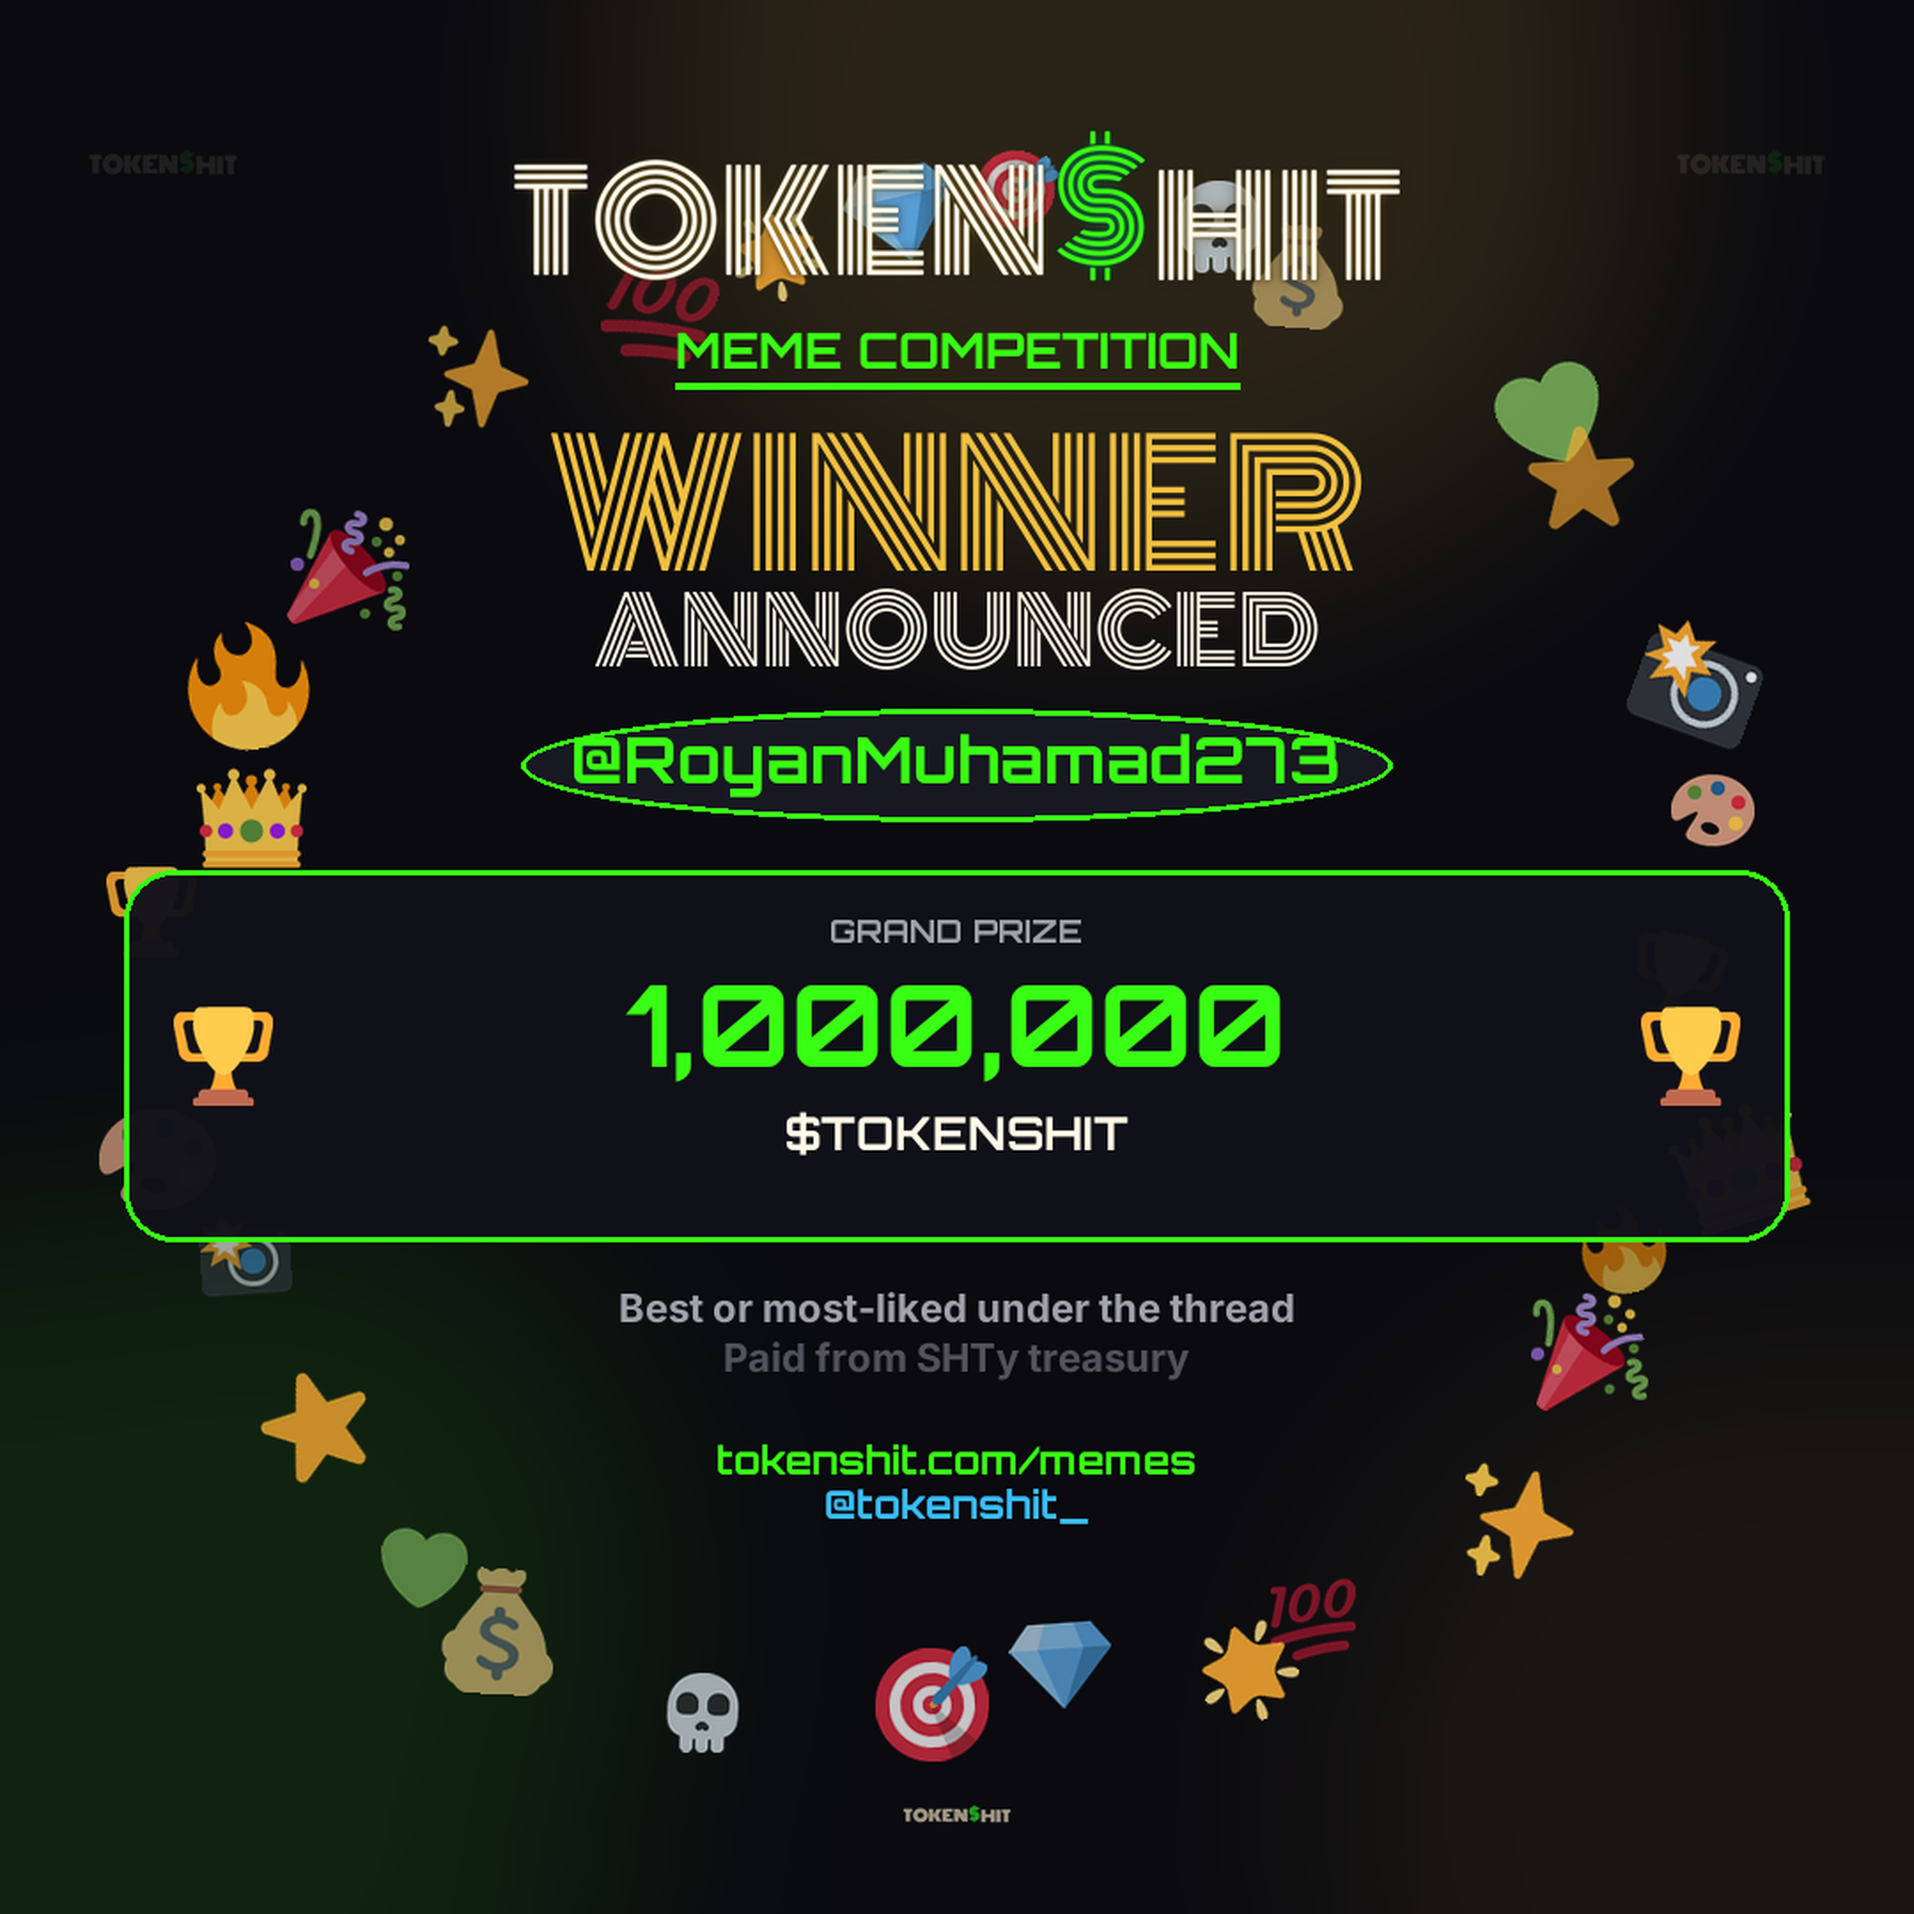
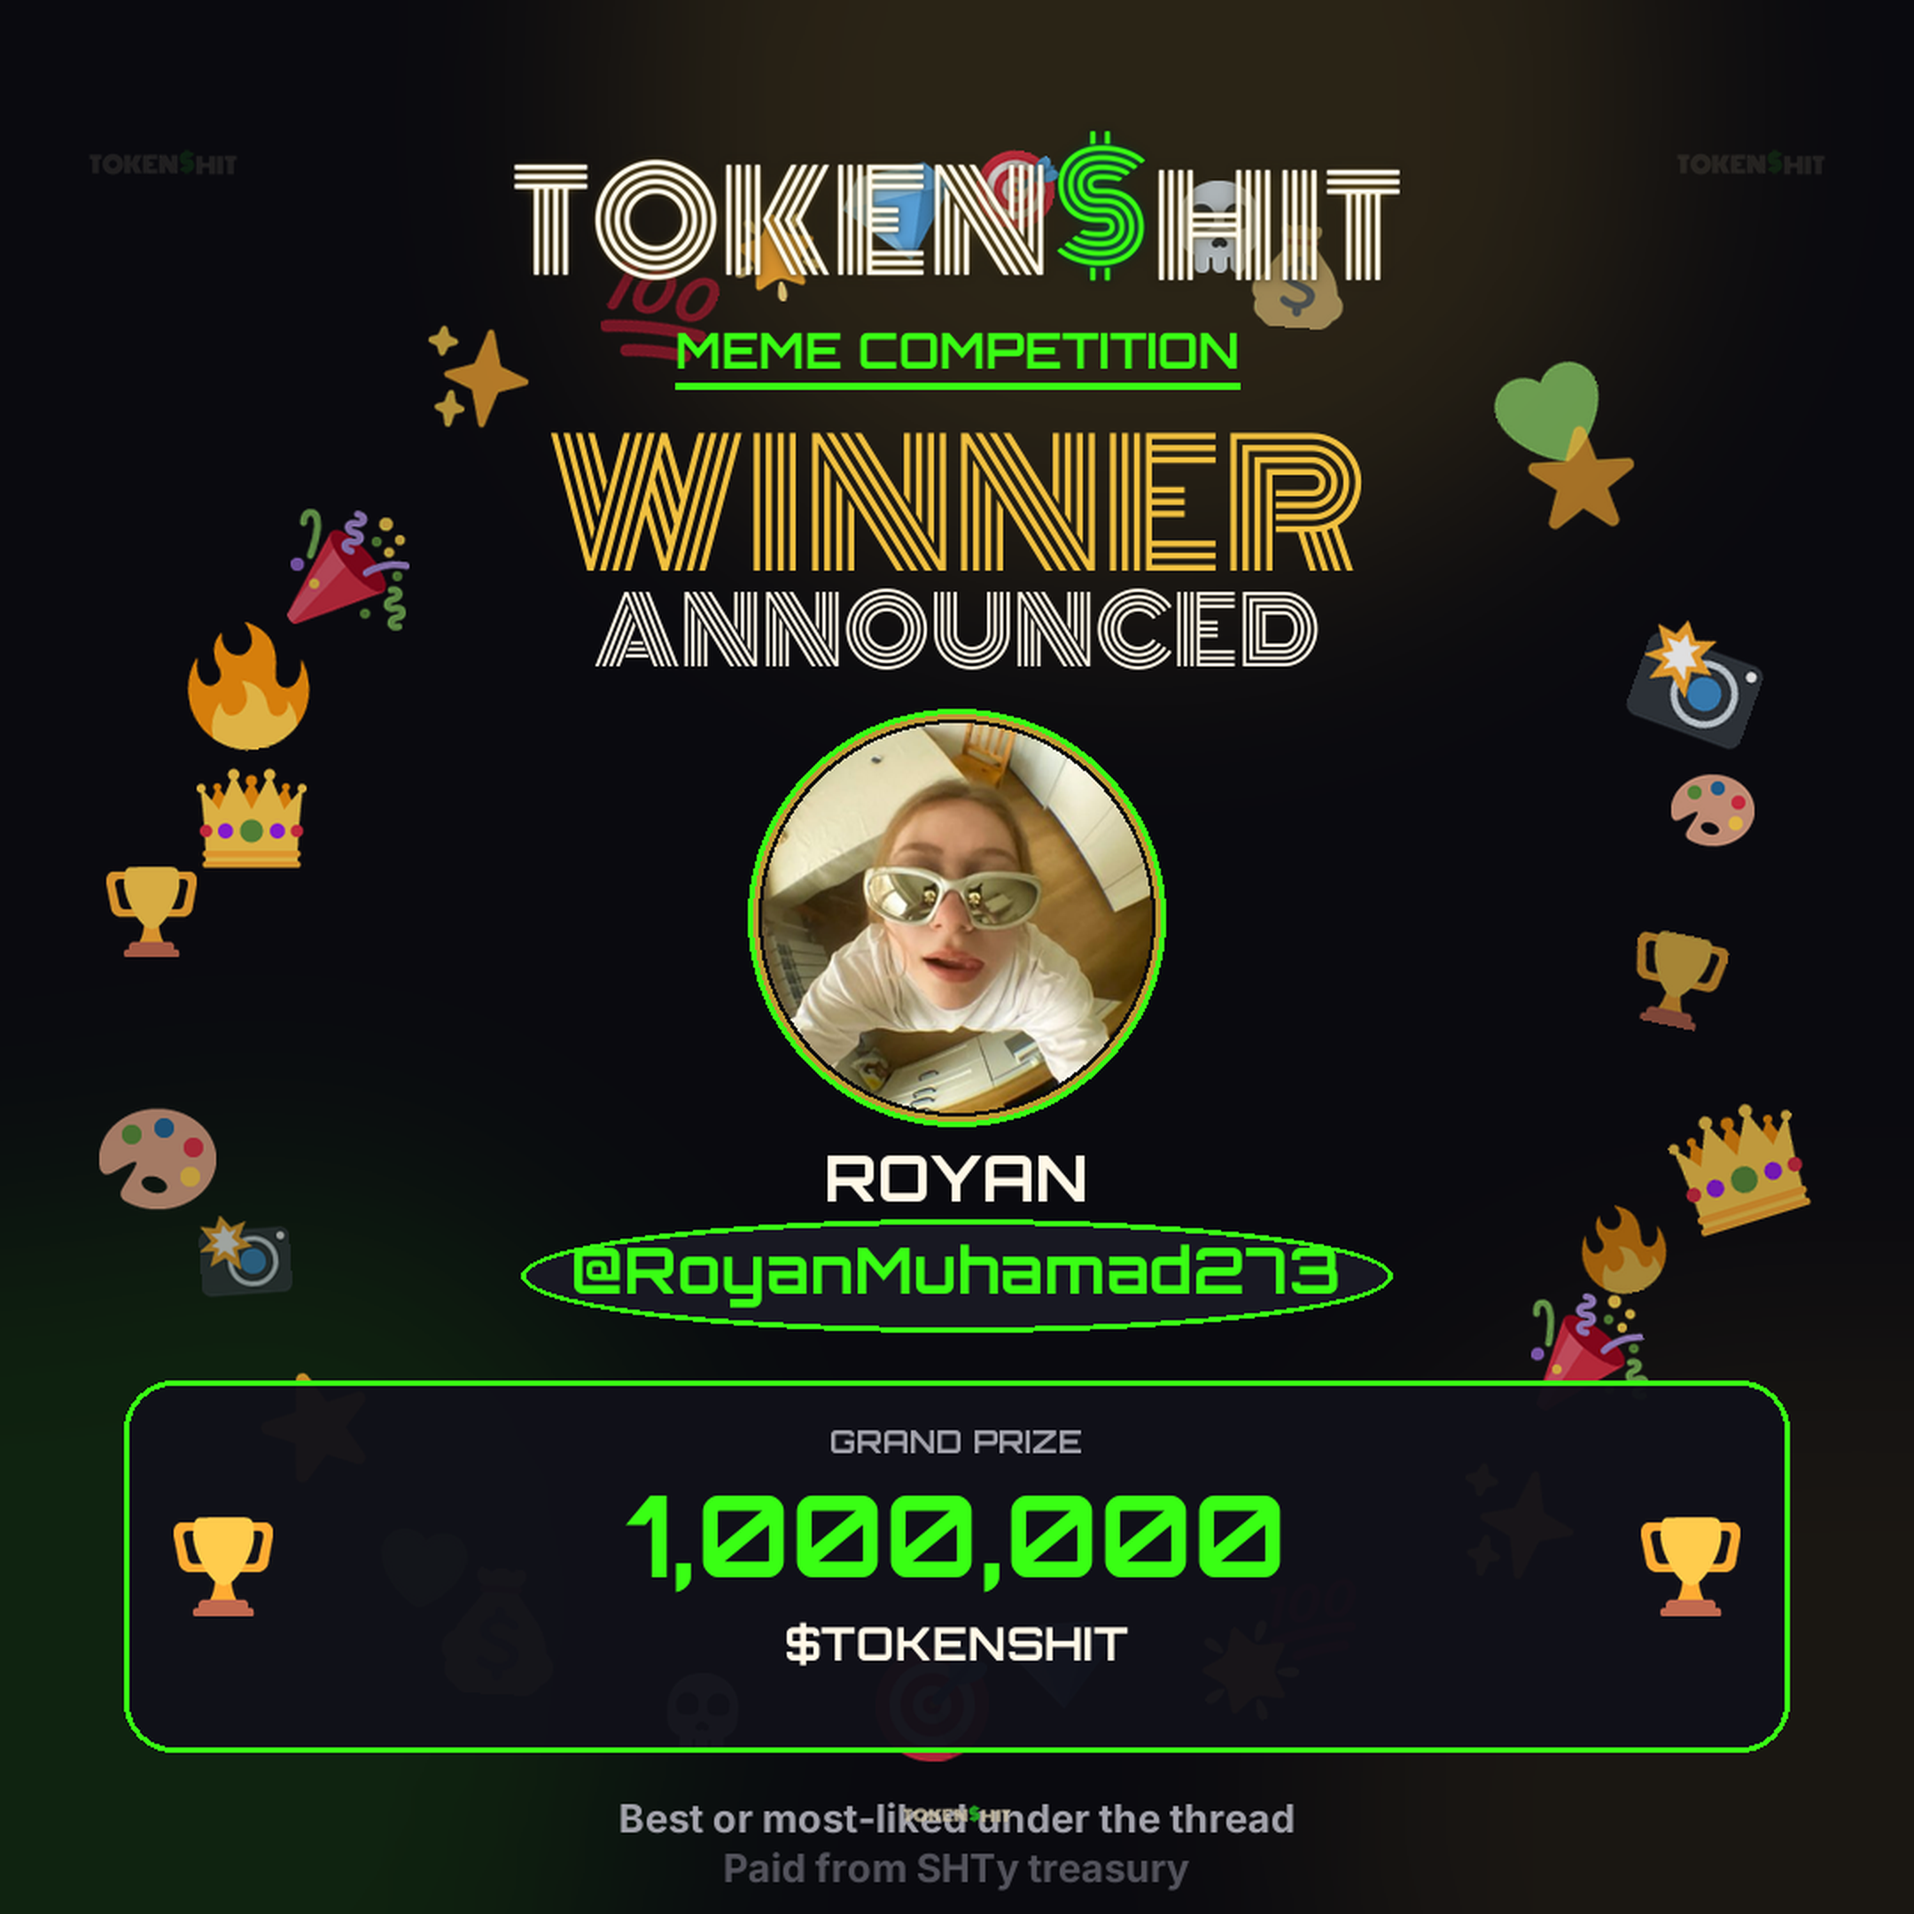
brand: winner poster with @RoyanMuhamad273 PFP

Changed region(s): [[0.062, 0.3722, 0.9616, 0.9926], [0.7444, 0.7444, 0.9616, 0.8995]]

diff --git a/scripts/generate-meme-comp-winner-poster.py b/scripts/generate-meme-comp-winner-poster.py
@@ -167,7 +167,7 @@ def center_text(draw, y, text, font, fill) -> int:
     return y + (b[3] - b[1])
 
 
-def build(handle: str | None = None) -> Image.Image:
+def build(handle: str | None = None, pfp_path: str | None = None, display_name: str | None = None) -> Image.Image:
     rng = random.Random(42)
     img = Image.new("RGBA", (S, S), (*BG, 255))
 
@@ -223,6 +223,33 @@ def build(handle: str | None = None) -> Image.Image:
     y = center_text(d, y, "WINNER", f_win, GOLD) + 10
     f_ann = fnt("Monoton-Regular.ttf", 52)
     y = center_text(d, y, "ANNOUNCED", f_ann, CREAM) + 22
+
+    # profile photo
+    if pfp_path:
+        try:
+            pfp = Image.open(pfp_path).convert("RGBA")
+            size = 220
+            pfp = pfp.resize((size, size), Image.Resampling.LANCZOS)
+            # circular mask
+            mask = Image.new("L", (size, size), 0)
+            md = ImageDraw.Draw(mask)
+            md.ellipse([0, 0, size - 1, size - 1], fill=255)
+            # neon ring
+            ring = Image.new("RGBA", (size + 16, size + 16), (0, 0, 0, 0))
+            rd = ImageDraw.Draw(ring)
+            rd.ellipse([0, 0, size + 15, size + 15], outline=(*NEON, 255), width=6)
+            rd.ellipse([3, 3, size + 12, size + 12], outline=(*GOLD, 200), width=3)
+            circ = Image.new("RGBA", (size, size), (0, 0, 0, 0))
+            circ.paste(pfp, (0, 0), mask)
+            rx = (S - (size + 16)) // 2
+            img.alpha_composite(ring, (rx, y))
+            img.alpha_composite(circ, (rx + 8, y + 8))
+            y += size + 16 + 16
+        except Exception as e:
+            print("pfp failed", e)
+
+    if display_name:
+        y = center_text(d, y, display_name.upper(), f_handle, CREAM) + 10
 
     if handle:
         h = handle if handle.startswith("@") else f"@{handle}"
@@ -316,6 +343,8 @@ def build(handle: str | None = None) -> Image.Image:
 def main() -> None:
     ap = argparse.ArgumentParser()
     ap.add_argument("--handle", default="", help="Winner X handle e.g. @foo")
+    ap.add_argument("--pfp", default="", help="Path to winner profile image")
+    ap.add_argument("--name", default="", help="Display name e.g. ROYAN")
     ap.add_argument(
         "--out",
         default="",
@@ -326,7 +355,9 @@ def main() -> None:
     if handle and not handle.startswith("@"):
         handle = "@" + handle.lstrip("@")
 
-    img = build(handle)
+    pfp = (args.pfp or "").strip() or None
+    name = (args.name or "").strip() or None
+    img = build(handle, pfp, name)
     stem = "meme-comp-winner-poster"
     if handle:
         safe = handle.lstrip("@").lower()
